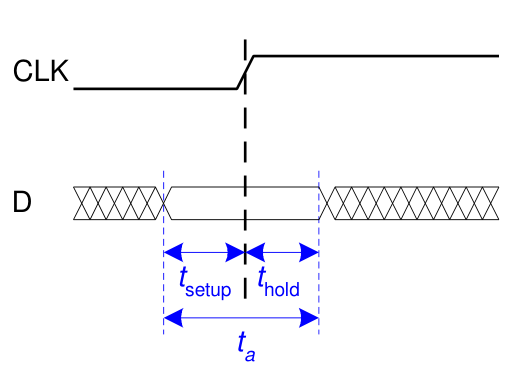
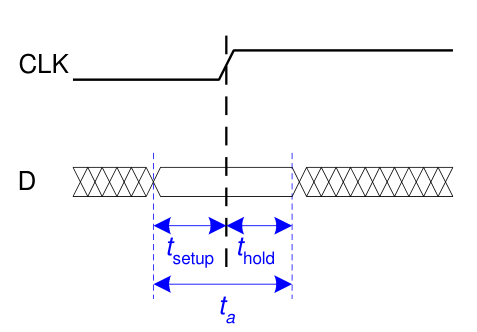
20240528

diff --git a/computer_architecture.md b/computer_architecture.md
@@ -206,27 +206,31 @@ so at rising/positive edge of clock `Q` get assigned `D`
 ## timing & verification
 - **functional specification:** describes relationship between inputs & outputs  
 **timing specification:** describes delay between inputs changing and outputs responding
-- **combinational circuit delay:** circuit outputs change some time after the inputs change due to capacitance & resistance in a circuit and finite speed of light  
+- **combinational circuit delay:** circuit outputs change some time after the inputs change due to capacitance & resistance in a circuit and finite speed of light (which is not so fast in nanosecond level)  
 ![](./media/computer_architecture/combinational_circuit_delay.png)
 - **contamination delay:** minimum delay  
 **propagation delay:** maximum delay  
 **cross hatching:** output could be changing (centre part)  
 **critical path:** path with longest propagation delay  
-![](./media/computer_architecture/delay_types.png)
-- **glitch:** one input transition causes multiple output transitions, visible on K-maps since it shows results of a change in a single input  
-resolve the glitch by adding the consensus term (`~A . C`) to ensure no transition  
+![](./media/computer_architecture/delay_types.png)  
+**critical path:** longest delay path  
+![](./media/computer_architecture/critical_path.png)
+- **glitch:** one input transition causes multiple output transitions due to difference in delays in two paths `n1` & `n2`  
 ![](./media/computer_architecture/timing_glitch.png)
 - **sequential circuit timing:** `D` & `Q` in a D flip-flop have their own timing requirement
   - **input:** `D` must be stable when sampled at rising clock edge  
+  aperture time is the time around clock edge that data must be stable  
   ![](./media/computer_architecture/sequential_timing_input.png)  
-  **metastability:** flip-flop output is stuck somewhere between `1` & `0` if `D` is changing, output eventually settles non-deterministically  
+  **metastability:**is `D` is changing when sampled (aperture time) flip-flop output is stuck somewhere between `1` & `0`, output eventually settles non-deterministically  
   ![](./media/computer_architecture/metastability.png)
-  - **output:** Q changes between the contamination & propagation delay clock-to-q  
+  - **output:** output `Q` starts changing at contamination delay clock-to-q and ends changing at propagation delay clock-to-q  
   ![](./media/computer_architecture/sequential_timing_output.png)
 - **clock skew:** time difference between two clock edges, because clock does not reach all parts of the chip at the same time  
 ![](./media/computer_architecture/clock_skew.png)  
-requires intelligent clock network across a chip, so clock arrives at all locations at roughly the same time  
-![](./media/computer_architecture/clock_network.png)  
+example: clock skew spatial distribution for Alpha 21264  
+![](./media/computer_architecture/clock_skew_example.png)  
+to keep skew to minimum intelligent clock network are required across a chip to make sure clock arrives at all locations at roughly the same time  
+![](./media/computer_architecture/clock_network.png)
 
 ## instruction set architecture
 - **instruction:** most basic unit of computer processing
